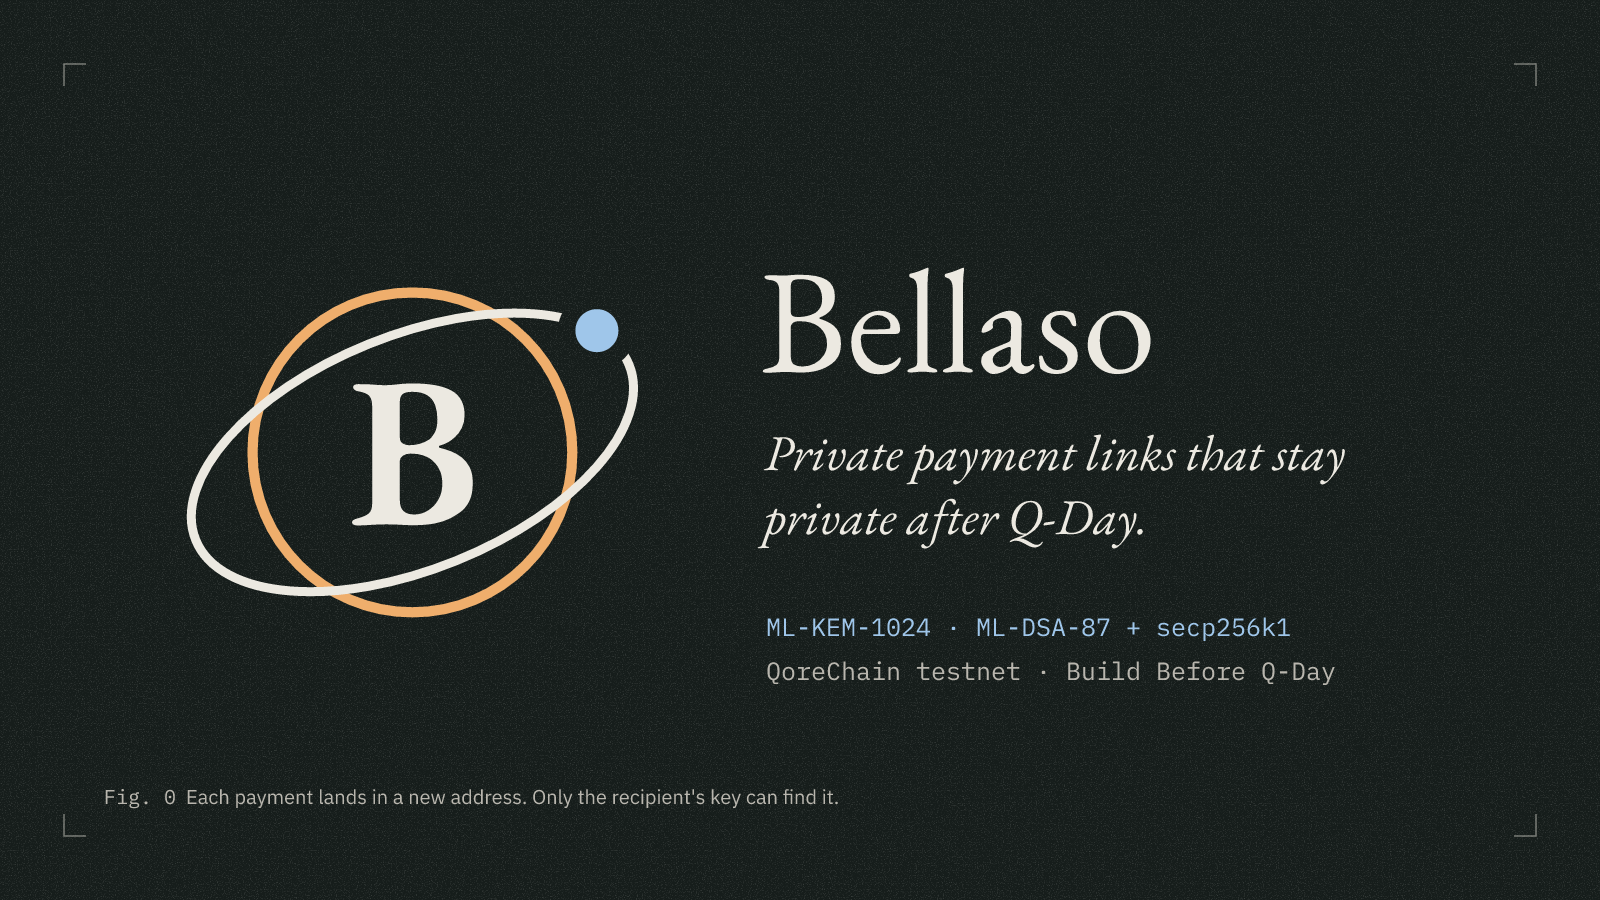
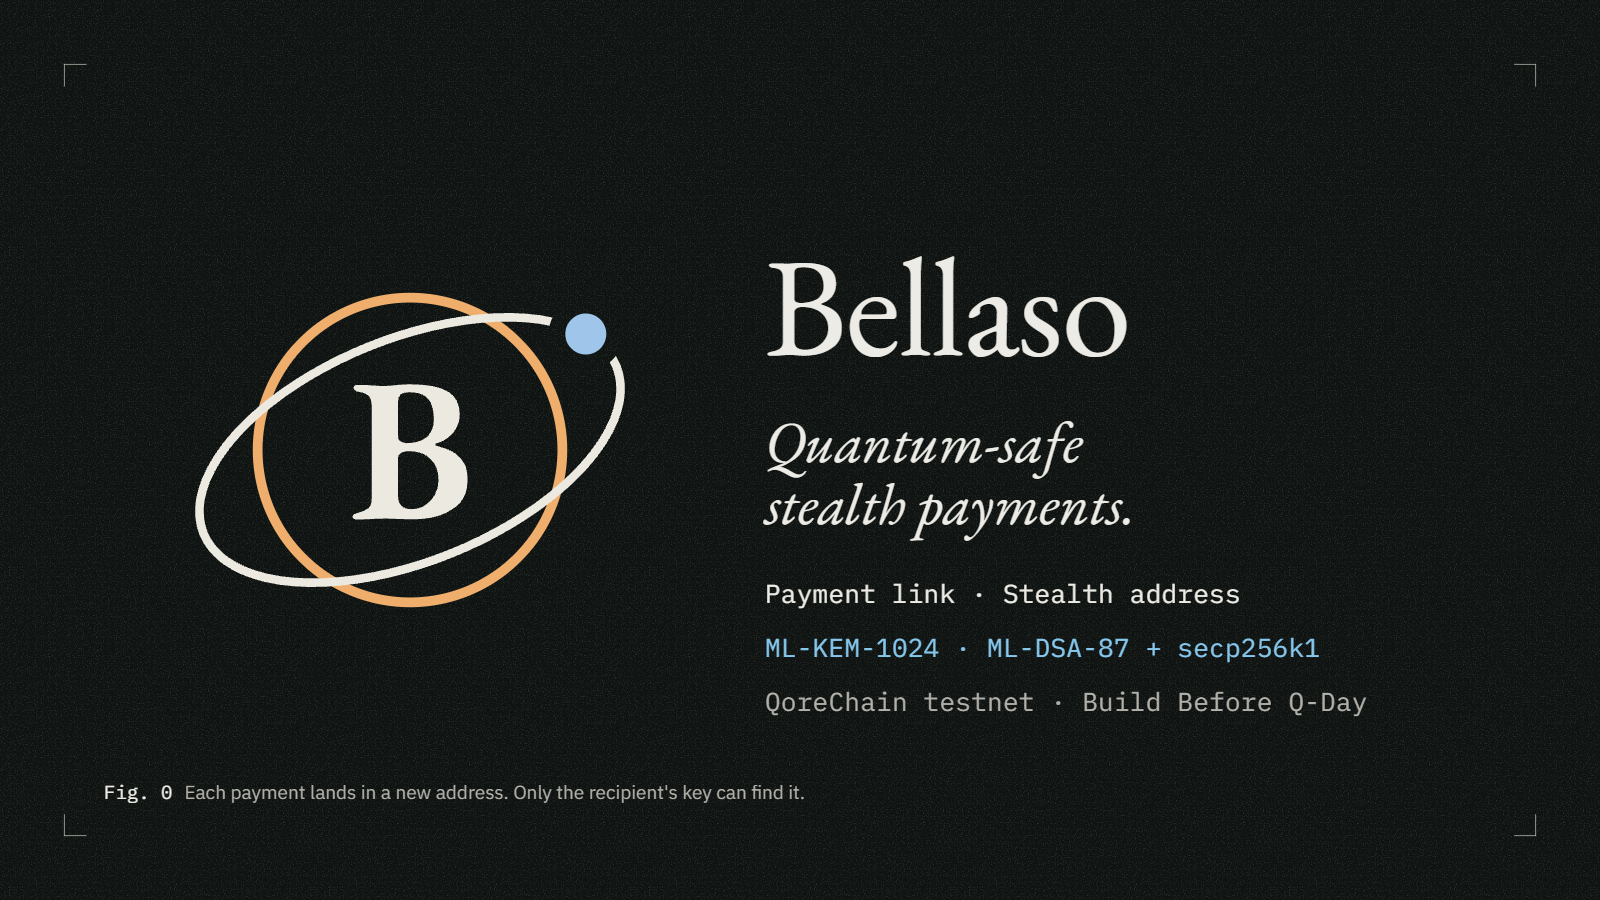
feat(web): lead the landing page with quantum-safe stealth payments and the two methods
The hero now names both methods. The methods section moves up and shows, for each method, what the payer uses, what goes on chain and where the new address comes from. The method 2 link opens the stealth address tab of /receive through #stealth. The page metadata and the cover image use the new line. Copy that said nobody can link a payment now says no chain observer can, because the payer knows the address they paid.

diff --git a/apps/web/app/page.tsx b/apps/web/app/page.tsx
@@ -50,6 +50,36 @@ const FACTS = [
   ["Runs on", "QoreChain testnet"],
 ] as const;
 
+/** The two payment methods (SPEC section 2.2): the hero names them, the methods section explains them. */
+const METHODS = [
+  {
+    kicker: "Method 1",
+    title: "Payment link",
+    short: "One link for every payer. They pay with QoreX.",
+    facts: [
+      ["The payer uses", "QoreX, with one signature"],
+      ["On chain", "A transfer to a new address, and 1,568 bytes of ML‑KEM‑1024 ciphertext"],
+      ["The new address comes from", "A secret that the payer seals to your ML‑KEM‑1024 key. Only your key opens it."],
+      ["Best for", "Many payers, a public page"],
+    ],
+    href: "/receive",
+    action: "Get my payment link",
+  },
+  {
+    kicker: "Method 2",
+    title: "Stealth address",
+    short: "One address for each client. They pay from any wallet.",
+    facts: [
+      ["The payer uses", "Any wallet, with a normal transfer"],
+      ["On chain", "A normal transfer, and nothing more"],
+      ["The new address comes from", "Your post-quantum root secret and a counter. The secret never leaves your browser."],
+      ["Best for", "One client or one invoice"],
+    ],
+    href: "/receive#stealth",
+    action: "Make a stealth address",
+  },
+] as const;
+
 const STEPS = [
   ["Rina publishes a key", "Her ML-KEM-1024 public key goes into the QoreSeal registry. Her link points to that key, not to a balance."],
   ["The payer seals a secret to it", "The browser of the payer makes a shared secret and 1,568 bytes of ciphertext. The secret gives a brand new address."],
@@ -86,7 +116,7 @@ const COMPARED = {
   ],
 } as const;
 
-/** The landing page (design canvas, Main board): one live figure, the two methods, the honest limits and the comparison. */
+/** The landing page (design canvas, Main board): the two methods first, one live figure, the honest limits and the comparison. */
 export default function Home() {
   const points = announcementField();
   return (
@@ -94,6 +124,7 @@ export default function Home() {
       <SiteHeader
         action={
           <nav aria-label="Sections" className={styles.sections}>
+            <a href="#methods">Two methods</a>
             <a href="#how">How it works</a>
             <a href="#public">What stays public</a>
             <a href="#compared">Compared</a>
@@ -107,11 +138,19 @@ export default function Home() {
       <main className={styles.landing}>
         <section className={styles.hero}>
           <div>
-            <h1 className={`${styles.heroTitle} ${styles.up}`}>Private payment links that stay private after Q-Day.</h1>
+            <h1 className={`${styles.heroTitle} ${styles.up}`}>Quantum-safe stealth payments.</h1>
             <p className={`${styles.heroLede} ${styles.up} ${styles.u1}`}>
-              Share one link. Every payment lands in a new account that only you can find and spend. Sealed with ML-KEM-1024, spent with
-              ML-DSA-87, keys never leave your browser.
+              No chain observer can link a payment to you, today or after Q-Day. Get paid in two ways:
             </p>
+            <ul className={`${styles.heroMethods} ${styles.up} ${styles.u1}`}>
+              {METHODS.map((method) => (
+                <li key={method.title}>
+                  <span className={styles.kicker}>{method.kicker}</span>
+                  <span className={styles.heroMethodTitle}>{method.title}</span>
+                  <span className={styles.heroMethodText}>{method.short}</span>
+                </li>
+              ))}
+            </ul>
             <div className={`${styles.actions} ${styles.up} ${styles.u2}`}>
               <Link href="/create" className={styles.cta}>
                 Create my Bellaso <span className={styles.arrow}>→</span>
@@ -169,6 +208,35 @@ export default function Home() {
           ))}
         </dl>
 
+        <section id="methods" className={`${styles.section} ${styles.reveal}`} aria-labelledby="methods-title">
+          <h2 id="methods-title" className={styles.h2}>
+            Two methods, both quantum-safe
+          </h2>
+          <p className={styles.lede}>
+            Each payment lands in a new one-time account. The methods differ in how the payer pays and where the new address comes from. Every
+            spend needs two signatures: secp256k1 and {"ML‑DSA‑87"}.
+          </p>
+          <div className={styles.methods}>
+            {METHODS.map((method) => (
+              <article key={method.title} className={styles.method}>
+                <p className={styles.kicker}>{method.kicker}</p>
+                <h3 className={styles.methodTitle}>{method.title}</h3>
+                <dl className={styles.methodFacts}>
+                  {method.facts.map(([term, value]) => (
+                    <div key={term}>
+                      <dt>{term}</dt>
+                      <dd>{value}</dd>
+                    </div>
+                  ))}
+                </dl>
+                <Link href={method.href} className={styles.textLink}>
+                  {method.action} <span className={styles.arrow}>→</span>
+                </Link>
+              </article>
+            ))}
+          </div>
+        </section>
+
         <section className={`${styles.section} ${styles.reveal}`} aria-labelledby="problem">
           <p id="problem" className={styles.kicker}>
             The problem
@@ -179,27 +247,6 @@ export default function Home() {
             <p>A quantum computer can break that math later and match every old payment to its receiver. A leak of privacy cannot be reversed by a fork.</p>
           </div>
           <p className={styles.source}>ethresear.ch, March 2026 · L2BEAT rates ECDH stealth payments “Exposed” to a future adversary</p>
-        </section>
-
-        <section className={`${styles.section} ${styles.reveal}`} aria-labelledby="methods">
-          <h2 id="methods" className={styles.h2}>
-            Two ways to get paid
-          </h2>
-          <div className={styles.methods}>
-            {(
-              [
-                ["Method 1", "Payment link", "One link for everyone. The payer opens it and pays with QoreX. Their browser seals a brand new address for you.", "payer needs QoreX · best for many payers"],
-                ["Method 2", "Stealth address", "Make a new address for one client. They pay from any wallet with a normal transfer. Nothing but the transfer goes on chain.", "payer needs any wallet · one address per client"],
-              ] as const
-            ).map(([kicker, title, body, note]) => (
-              <article key={title} className={styles.method}>
-                <p className={styles.kicker}>{kicker}</p>
-                <h3 className={styles.methodTitle}>{title}</h3>
-                <p>{body}</p>
-                <p className={styles.note}>{note}</p>
-              </article>
-            ))}
-          </div>
         </section>
 
         <section id="how" className={`${styles.section} ${styles.reveal}`} aria-labelledby="how-title">
@@ -305,7 +352,7 @@ export default function Home() {
             </h2>
             <p>
               In 1553 Giovan Battista Bellaso published a cipher with a key. History gave the credit to Vigenère. It seemed the right name for payments
-              that nobody can trace back to you.
+              that no chain observer can trace back to you.
             </p>
           </div>
         </section>

diff --git a/apps/web/app/landing.module.css b/apps/web/app/landing.module.css
@@ -55,8 +55,42 @@
   text-wrap: pretty;
 }
 
+.heroMethods {
+  margin: 28px 0 0;
+  padding: 0;
+  list-style: none;
+  display: grid;
+  grid-template-columns: repeat(2, minmax(0, 1fr));
+  max-width: 560px;
+  border-top: 1px solid oklch(0.94 0.008 95 / 0.14);
+}
+
+.heroMethods li {
+  display: flex;
+  flex-direction: column;
+  gap: 6px;
+  padding: 18px 24px 0 0;
+}
+
+.heroMethods li + li {
+  padding: 18px 0 0 24px;
+  border-left: 1px solid oklch(0.94 0.008 95 / 0.14);
+}
+
+.heroMethodTitle {
+  font-family: var(--font-display), Georgia, serif;
+  font-size: clamp(26px, 2.6vw, 32px);
+  line-height: 1.1;
+}
+
+.heroMethodText {
+  font-size: 15px;
+  color: var(--chalk-muted);
+  text-wrap: pretty;
+}
+
 .actions {
-  margin-top: 40px;
+  margin-top: 36px;
   display: flex;
   flex-wrap: wrap;
   align-items: center;
@@ -279,28 +313,40 @@
 }
 
 .method {
+  display: flex;
+  flex-direction: column;
   padding: 28px;
   border: 1px solid oklch(0.94 0.008 95 / 0.16);
   border-radius: 2px;
-}
-
-.method p {
-  margin: 10px 0 0;
-  font-size: 16px;
 }
 
 .methodTitle {
   margin: 8px 0 0;
   font-family: var(--font-display), Georgia, serif;
   font-weight: 400;
-  font-size: 32px;
+  font-size: clamp(32px, 3.4vw, 40px);
 }
 
-.method .note {
-  margin-top: 18px;
-  font-family: var(--font-mono), monospace;
-  font-size: 12px;
+.method > a {
+  align-self: flex-start;
+  margin-top: auto;
+}
+
+.methodFacts {
+  margin: 22px 0 26px;
+  display: grid;
+  gap: 14px;
+}
+
+.methodFacts dt {
+  font-size: 13px;
   color: var(--chalk-muted);
+}
+
+.methodFacts dd {
+  margin: 3px 0 0;
+  font-size: 16px;
+  text-wrap: pretty;
 }
 
 .journey {
@@ -523,6 +569,18 @@
 
   .long {
     display: none;
+  }
+
+  .heroMethods li {
+    padding-right: 16px;
+  }
+
+  .heroMethods li + li {
+    padding-left: 16px;
+  }
+
+  .heroMethodTitle {
+    font-size: 24px;
   }
 
   .short {

diff --git a/apps/web/app/layout.tsx b/apps/web/app/layout.tsx
@@ -14,8 +14,9 @@ const mono = IBM_Plex_Mono({ subsets: ["latin"], weight: ["400", "500"], variabl
 
 export const metadata: Metadata = {
   metadataBase: new URL("https://bellaso.vercel.app"),
-  title: { default: "Bellaso", template: "%s · Bellaso" },
-  description: "Private payment links that stay private after Q-Day.",
+  title: { default: "Bellaso · Quantum-safe stealth payments", template: "%s · Bellaso" },
+  description:
+    "Quantum-safe stealth payments on QoreChain. Share one payment link, or give each client a stealth address. ML-KEM-1024 hides the receiver, ML-DSA-87 guards the funds.",
   openGraph: { images: [{ url: "/brand/cover-1600x900.png", width: 1600, height: 900 }] },
   twitter: { card: "summary_large_image", images: ["/brand/cover-1600x900.png"] },
 };

diff --git a/apps/web/app/receive/receive-client.tsx b/apps/web/app/receive/receive-client.tsx
@@ -67,6 +67,7 @@ export function ReceiveClient() {
 
   useEffect(() => {
     setOrigin(window.location.origin);
+    if (window.location.hash === "#stealth") setMethod("stealth");
     fetchTransfers()
       .then(setTransfers)
       .catch(() => setTransfers(null));
@@ -137,7 +138,7 @@ export function ReceiveClient() {
       />
       <main className="page">
         <h1>Get paid</h1>
-        <p className={ui.lede}>Each payment lands in a new address that nobody can link to you, today or after Q-Day.</p>
+        <p className={ui.lede}>Each payment lands in a new address that no chain observer can link to you, today or after Q-Day.</p>
 
         {!vault ? (
           <div style={{ marginTop: 40 }}>
